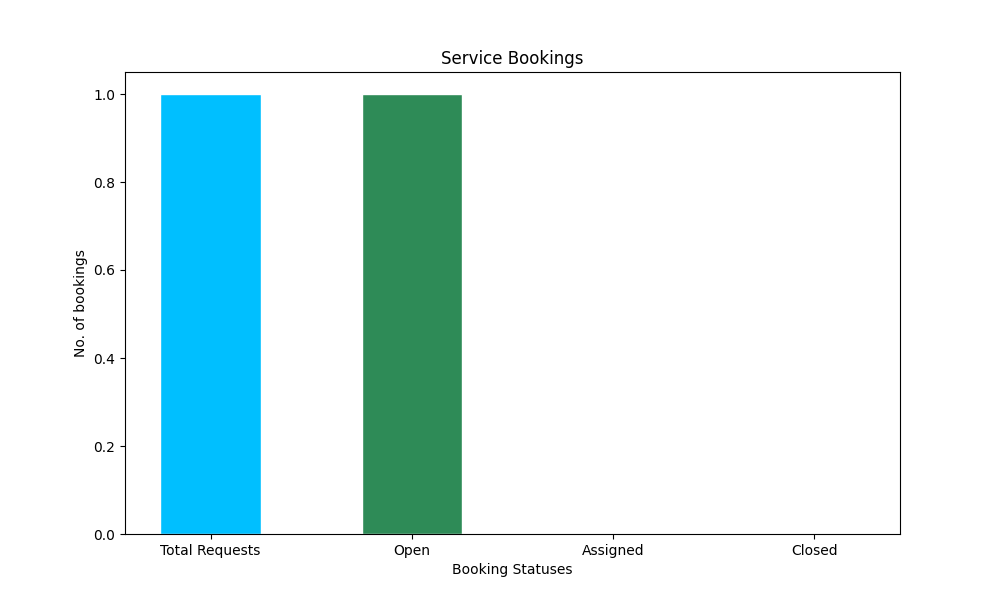
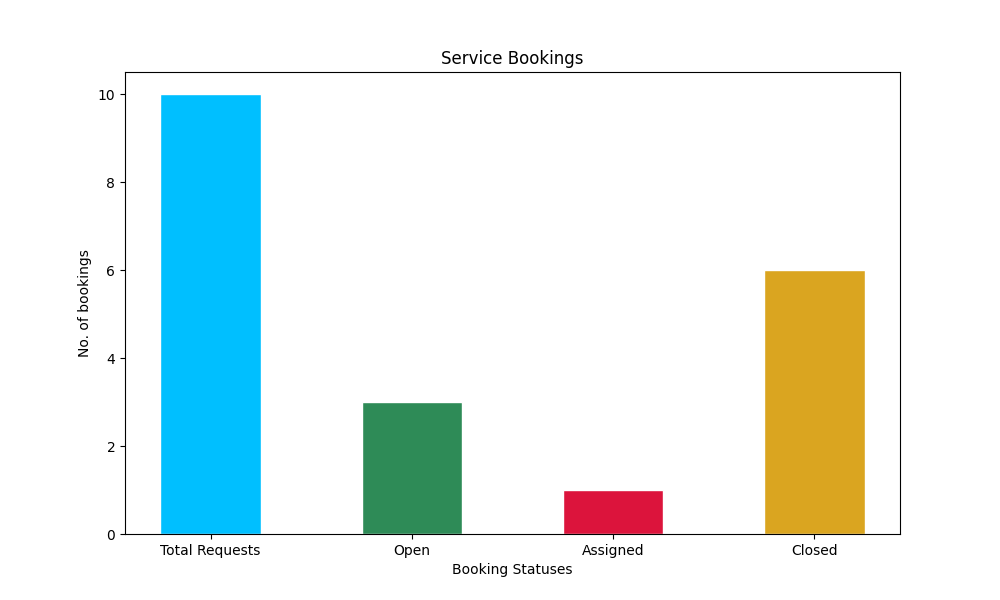
all done, perhaps

diff --git a/templates/update_professional_profile.html b/templates/update_professional_profile.html
@@ -19,7 +19,6 @@
                     </select> </p>
                 <p>Experience : <input type="number" name="experience" value = "{{professional.Experience}}" required/> (in months)</p>    
                 <p>Zip Code : <input type="number" name="pincode" value = "{{professional.Pincode}}" required/></p> 
-                <p>Resume (in pdf format): <input type="file" accept=".pdf" name="resume" /> </p>    
                 <input type="submit" value="Edit" />
             </form>
         </fieldset>    

diff --git a/application/controllers.py b/application/controllers.py
@@ -650,7 +650,6 @@ def Professional_Search(professional_id):
             return render_template("error.html", error_message="Something went Wrong !!", back_to = f"/professional_search/{professional_id}")  
     
 
-
 #Update Professionals Profile
 @app.route("/update_professional_profile/<int:professional_id>", methods = ["GET", "POST"])
 def Update_Professional_Profile(professional_id):
